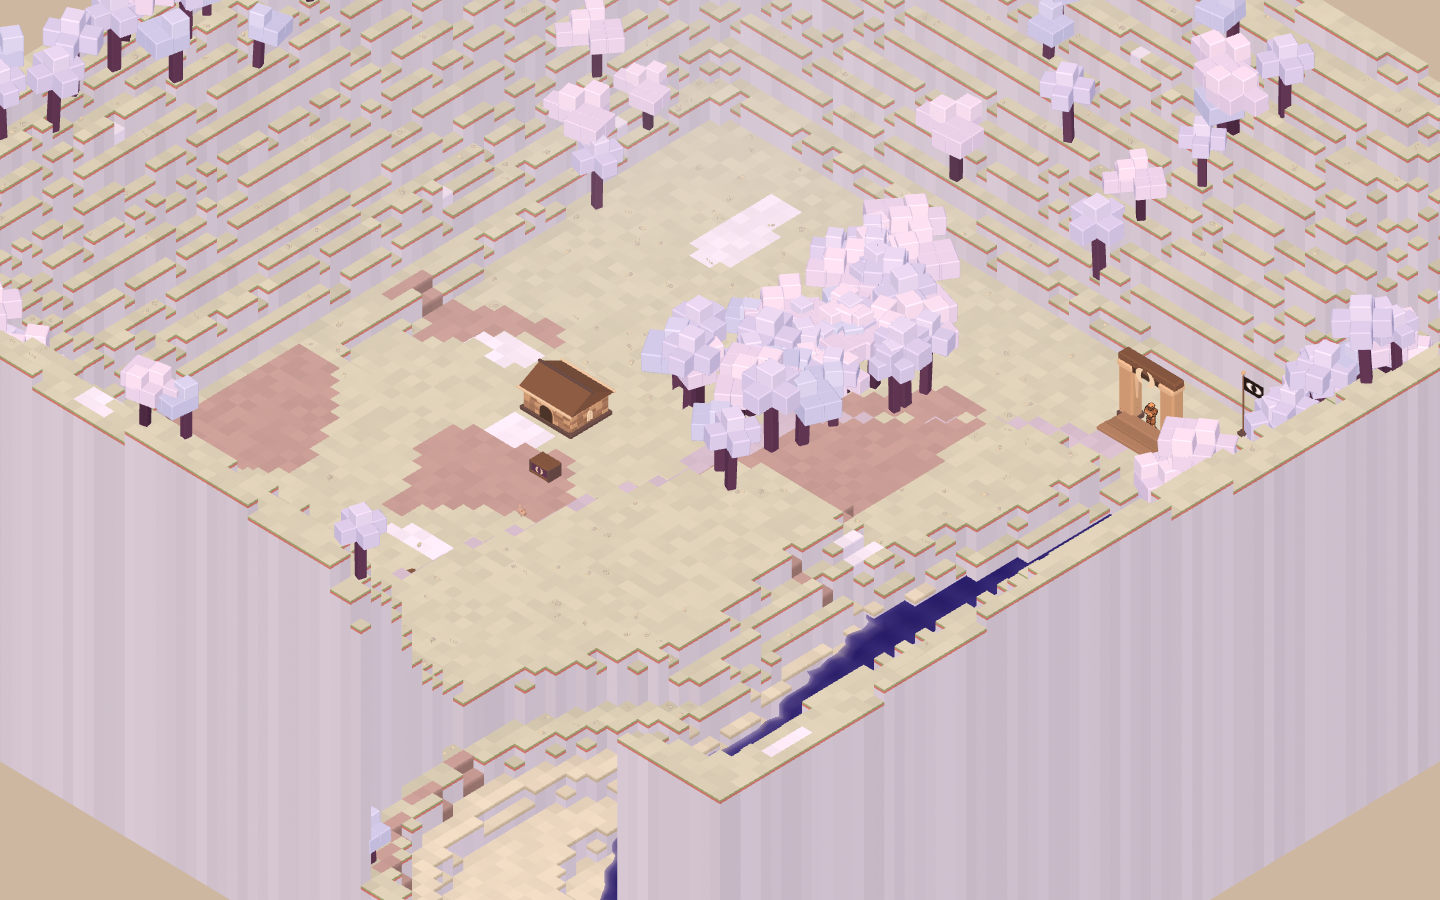
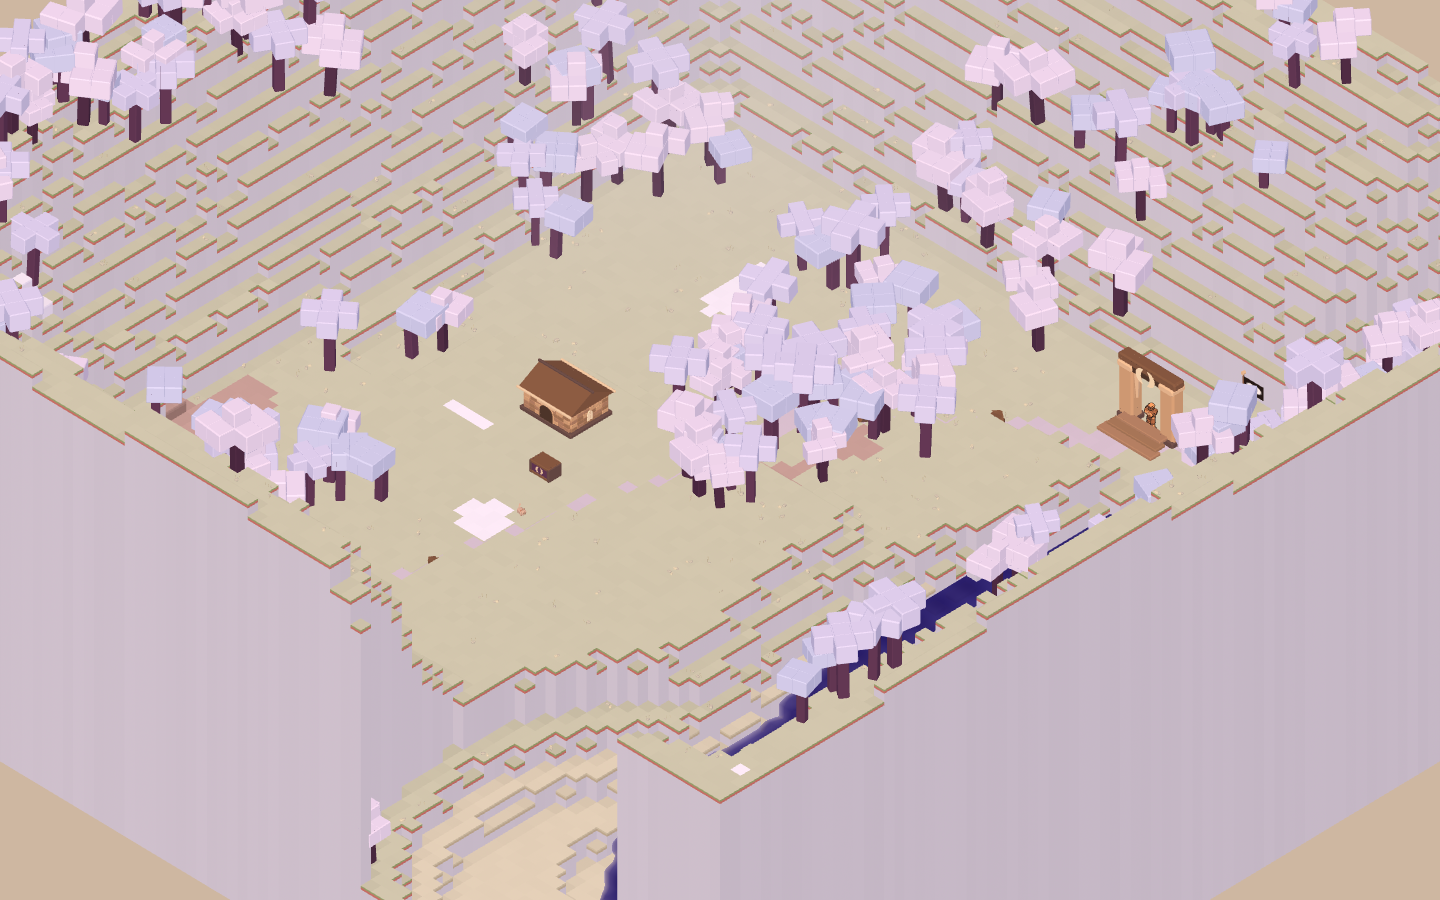
Fix inverted movement; rebuild the character; kill the ground checkerboard
Three separate problems, one of them a real bug.

MOVEMENT WAS ROTATED THE WRONG WAY. The rig sits at
`focus + (sin yaw, *, cos yaw) * d` looking back at the focus, so the
direction into the screen is `(-sin yaw, -cos yaw)`. The camera-relative
transform used the obvious `x*cos - z*sin, x*sin + z*cos`, which sends W
ninety degrees off that — at the default 45-degree yaw it reads as the
controls being reversed. Now `x*cos + z*sin, -x*sin + z*cos`, verified
numerically: W dots the camera forward at +1.00, S at -1.00, A and D at
0.00.

THE CHARACTER WAS THE WRONG CHARACTER. The reference's is a chibi built
entirely from boxes — about three heads tall, a head as wide as the
shoulders, a cream shirt panel with blue sleeves either side, one tan
strap, navy legs, black boots. Mine was a 1.72-unit adult made of hex
prisms with tapered limbs, a backpack and a brimmed hat. At this camera
height the player is a hundred pixels tall and proportion is the only
thing that reads, so it is now boxes at 1.55 units with the reference's
proportions.

THE GROUND WAS A CHECKERBOARD. Per-cell colour jitter at ±6% gives every
cell an independent value and the eye assembles them into a grid across
a flat plateau. Cut to ±1.5%, which still stops large flats banding.

Also from the same comparison pass: ground pulled to the reference's
cool sage-khaki, canopies down to a single flat layer of cubes in one
uniform tone (the split-by-height tone made the raised cubes read as a
[…]

diff --git a/src/actors/player.js b/src/actors/player.js
@@ -1,5 +1,5 @@
 import * as THREE from 'three'
-import { BALL, chamferBox, COLUMN, DISC, FLAT, POINT, stoneMat, TAPER } from '../core/kit.js'
+import { chamferBox, stoneMat } from '../core/kit.js'
 import { C, UI } from '../core/palette.js'
 import { clamp, damp } from '../core/rng.js'
 import { Grid, N } from '../world/grid.js'
@@ -36,33 +36,52 @@ const RADIUS = 0.3
  *
  * One entry, and that is the point. There is nobody else alive in the valley —
  * the survivors are scattered and do not know about each other — so a second
- * human look would be a lie about the setting. An earlier pass put three
- * villagers and a market square in here and it read as a different game.
+ * human look would be a lie about the setting.
  *
- * The teal jacket and the rust pack are the only saturated colours a person is
+ * The blue cap and the tan belt are the only saturated colours a person is
  * allowed to be against a washed-out world. They are how you find yourself in a
  * wide shot.
  */
 export const LOOKS = {
   apprentice: {
-    skin: C.skin, hair: C.hair,
-    coat: C.jacket, coatDark: C.jacketDark,
-    trouser: C.trousers, boot: C.boots,
-    pack: C.pack, hat: true,
+    cap: '#7ba8c4', capDark: '#3d6b74',
+    shirt: '#e8e0d0', sleeve: '#5f9ec4',
+    belt: '#d9a05a', skin: C.skin,
+    trouser: '#3a4468', boot: '#1c1e2a',
   },
 }
 
+/**
+ * The settler.
+ *
+ * **Everything is a box.** Not a tapered prism, not a hex plate, not a sphere —
+ * hard rectangular voxels, the way the reference draws them. And the
+ * proportions are a chibi's, not a person's: roughly three heads tall, with a
+ * head as wide as the shoulders and legs that are a third of the figure.
+ *
+ * An earlier pass built a 1.72-unit adult out of hex prisms with tapered limbs
+ * and a brimmed hat. It was a perfectly decent little farmer and it was the
+ * wrong one — at this camera height the player is a hundred pixels tall, and at
+ * that size proportion and silhouette are the ONLY things that read.
+ *
+ * Measured off the footage, as fractions of total height:
+ *
+ *   head   1.06 → 1.55  (0.62 wide — as wide as the shoulders)
+ *   torso  0.58 → 1.10  (cream front panel, blue sleeves either side)
+ *   legs   0.12 → 0.60  (navy)
+ *   boots  0.00 → 0.17
+ */
 export function buildPlayer(lookKey = 'apprentice') {
   const look = typeof lookKey === 'string' ? (LOOKS[lookKey] ?? LOOKS.apprentice) : lookKey
   const MAT = {
+    cap: stoneMat(look.cap),
+    capDark: stoneMat(look.capDark),
+    shirt: stoneMat(look.shirt),
+    sleeve: stoneMat(look.sleeve),
+    belt: stoneMat(look.belt),
     skin: stoneMat(look.skin),
-    hair: stoneMat(look.hair),
-    coat: stoneMat(look.coat),
-    coatDark: stoneMat(look.coatDark),
     trouser: stoneMat(look.trouser),
     boot: stoneMat(look.boot),
-    pack: stoneMat(look.pack),
-    strap: stoneMat(UI.stoneDark),
     eye: stoneMat(UI.ink),
   }
 
@@ -70,12 +89,10 @@ export function buildPlayer(lookKey = 'apprentice') {
   root.name = 'player'
   const parts = { root, materials: MAT }
 
-  const plate = (parent, geo, at, sc, mat) => {
-    const m = new THREE.Mesh(geo, mat)
+  /** One box. The only primitive this rig uses. */
+  const box = (parent, [w, h, d], at, mat, cut = 0.03) => {
+    const m = new THREE.Mesh(chamferBox(w, h, d, cut), mat)
     m.position.set(...at)
-    m.scale.set(...(typeof sc === 'number' ? [sc, sc, sc] : sc))
-    m.castShadow = true
-    m.receiveShadow = true
     parent.add(m)
     return m
   }
@@ -89,70 +106,75 @@ export function buildPlayer(lookKey = 'apprentice') {
 
   const body = pivot(root, [0, 0, 0], 'body')
 
-  // Hips, coat, shoulders. The coat flares below the belt — one extra plate,
-  // and it is the difference between a farmer and a mannequin in a shirt.
-  plate(body, POINT, [0, 0.86, 0], [0.34, 0.16, 0.24], MAT.trouser)
-  plate(body, POINT, [0, 1.02, 0], [0.42, 0.22, 0.28], MAT.coatDark)
-  const chest = pivot(body, [0, 1.02, 0], 'chest')
-  plate(chest, FLAT, [0, 0.16, 0], [0.44, 0.3, 0.28], MAT.coat)
-  plate(chest, FLAT, [0, 0.32, 0.005], [0.46, 0.08, 0.3], MAT.coatDark)
-  // The pack. Everything you are carrying is notionally in here.
-  plate(chest, chamferBox(0.34, 0.36, 0.2, 0.05), [0, 0.16, -0.2], 1, MAT.pack)
-  plate(chest, FLAT, [0, 0.2, 0.15], [0.1, 0.34, 0.06], MAT.strap)
-
-  const head = pivot(chest, [0, 0.4, 0], 'head')
-  plate(head, POINT, [0, 0.1, 0], [0.25, 0.22, 0.24], MAT.skin)
-  // Brimmed hat, because the sun in Ember is the reason anybody wears one.
-  if (look.hat) plate(head, FLAT, [0, 0.2, -0.01], [0.44, 0.04, 0.42], MAT.hair)
-  plate(head, POINT, [0, look.hat ? 0.26 : 0.22, -0.01], [0.26, look.hat ? 0.11 : 0.16, 0.25], MAT.hair)
-  for (const side of [-1, 1]) {
-    plate(head, DISC, [side * 0.062, 0.1, 0.122], [0.036, 0.05, 0.02], MAT.eye)
-  }
-
+  // --- legs ----------------------------------------------------------------
   for (const side of [-1, 1]) {
     const L = side < 0 ? 'L' : 'R'
-    const arm = pivot(chest, [side * 0.24, 0.28, 0], `arm${L}`)
-    plate(arm, TAPER, [0, -0.16, 0], [0.11, 0.33, 0.11], MAT.coat)
-    const fore = pivot(arm, [0, -0.31, 0], `fore${L}`)
-    plate(fore, TAPER, [0, -0.14, 0], [0.1, 0.3, 0.1], MAT.coatDark)
-    plate(fore, BALL, [0, -0.31, 0], [0.13, 0.13, 0.13], MAT.skin)
-    const hold = pivot(fore, [0, -0.34, 0.04], `hold${L}`)
+    const thigh = pivot(body, [side * 0.13, 0.6, 0], `thigh${L}`)
+    box(thigh, [0.2, 0.44, 0.22], [0, -0.22, 0], MAT.trouser)
+    const shin = pivot(thigh, [0, -0.44, 0], `shin${L}`)
+    const foot = pivot(shin, [0, -0.02, 0], `foot${L}`)
+    box(foot, [0.23, 0.15, 0.32], [0, -0.06, 0.04], MAT.boot)
+  }
+
+  // --- torso ---------------------------------------------------------------
+  const chest = pivot(body, [0, 0.58, 0], 'chest')
+  box(chest, [0.5, 0.5, 0.34], [0, 0.25, 0.02], MAT.shirt)
+  for (const side of [-1, 1]) {
+    box(chest, [0.12, 0.5, 0.36], [side * 0.21, 0.25, 0], MAT.sleeve)
+  }
+  // The satchel strap. One band, and it is the only warm colour on the figure.
+  box(chest, [0.52, 0.11, 0.37], [0, 0.13, 0.01], MAT.belt)
+
+  // --- head ----------------------------------------------------------------
+  // Big, and wider than it is tall. The cap IS the head; there is no separate
+  // skull under it at this size.
+  const head = pivot(chest, [0, 0.52, 0], 'head')
+  box(head, [0.62, 0.42, 0.52], [0, 0.21, 0], MAT.cap, 0.04)
+  // The hood roll at the back of the crown — the one piece of asymmetry, and
+  // what tells you which way the figure is facing from directly above.
+  box(head, [0.32, 0.16, 0.24], [0, 0.44, -0.14], MAT.capDark)
+  box(head, [0.44, 0.2, 0.05], [0, 0.13, 0.26], MAT.skin)
+  for (const side of [-1, 1]) {
+    box(head, [0.07, 0.07, 0.03], [side * 0.1, 0.16, 0.29], MAT.eye, 0.01)
+  }
+
+  // --- arms ----------------------------------------------------------------
+  for (const side of [-1, 1]) {
+    const L = side < 0 ? 'L' : 'R'
+    const arm = pivot(chest, [side * 0.31, 0.44, 0], `arm${L}`)
+    box(arm, [0.15, 0.28, 0.18], [0, -0.14, 0], MAT.sleeve)
+    const fore = pivot(arm, [0, -0.28, 0], `fore${L}`)
+    box(fore, [0.14, 0.2, 0.17], [0, -0.1, 0], MAT.sleeve)
+    box(fore, [0.15, 0.1, 0.17], [0, -0.24, 0], MAT.skin)
+    const hold = pivot(fore, [0, -0.28, 0.06], `hold${L}`)
     hold.rotation.x = -0.4
-  }
-
-  for (const side of [-1, 1]) {
-    const L = side < 0 ? 'L' : 'R'
-    const thigh = pivot(body, [side * 0.12, 0.86, 0], `thigh${L}`)
-    plate(thigh, COLUMN, [0, -0.2, 0], [0.16, 0.42, 0.17], MAT.trouser)
-    const shin = pivot(thigh, [0, -0.42, 0], `shin${L}`)
-    plate(shin, COLUMN, [0, -0.2, 0], [0.14, 0.4, 0.15], MAT.trouser)
-    const foot = pivot(shin, [0, -0.42, 0], `foot${L}`)
-    plate(foot, chamferBox(0.17, 0.12, 0.3, 0.04), [0, 0.06, 0.06], 1, MAT.boot)
   }
 
   const A = { t: 0, speed: 0, swing: 0, use: 0, useKind: 'swing', carry: null }
   parts.anim = A
-  parts.height = 1.72
+  parts.height = 1.55
 
   parts.update = (dt) => {
     A.t += dt
     const s = A.speed
     const gait = A.t * (7.2 + s * 2.4)
 
-    parts.thighL.rotation.x = Math.sin(gait) * 0.72 * s
-    parts.thighR.rotation.x = -Math.sin(gait) * 0.72 * s
-    parts.shinL.rotation.x = Math.max(0, -Math.sin(gait - 0.6)) * 0.95 * s
-    parts.shinR.rotation.x = Math.max(0, Math.sin(gait - 0.6)) * 0.95 * s
-    parts.footL.rotation.x = -parts.thighL.rotation.x * 0.35
-    parts.footR.rotation.x = -parts.thighR.rotation.x * 0.35
+    // Stubby legs swing less than long ones or the figure looks like it is
+    // running on the spot.
+    parts.thighL.rotation.x = Math.sin(gait) * 0.5 * s
+    parts.thighR.rotation.x = -Math.sin(gait) * 0.5 * s
+    parts.footL.rotation.x = -parts.thighL.rotation.x * 0.3
+    parts.footR.rotation.x = -parts.thighR.rotation.x * 0.3
     // The bob runs at DOUBLE the stride, because it peaks once per foot. At
     // stride frequency it reads as a limp.
-    parts.body.position.y = Math.abs(Math.sin(gait)) * 0.055 * s
-    parts.chest.rotation.y = Math.sin(gait) * 0.1 * s
-    parts.body.rotation.x = s * 0.07
+    parts.body.position.y = Math.abs(Math.sin(gait)) * 0.045 * s
+    parts.chest.rotation.y = Math.sin(gait) * 0.08 * s
+    // The head counter-rotates a little, so the cap stays level while the body
+    // turns under it. It is two lines and it is most of the life in the walk.
+    parts.head.rotation.y = -parts.chest.rotation.y * 0.6
+    parts.head.rotation.z = Math.sin(gait) * 0.03 * s
+    parts.body.rotation.x = s * 0.05
 
-    // Tool use overrides the arms entirely, and decays on its own clock so the
-    // swing finishes even if the player let go of the key mid-stroke.
     A.use = Math.max(0, A.use - dt * 2.6)
     const u = A.use
     if (u > 0) {
@@ -162,17 +184,17 @@ export function buildPlayer(lookKey = 'apprentice') {
         ? -1.3 - Math.sin(Math.min(1, u) * Math.PI) * 0.3
         : -2.4 + Math.cos(u * Math.PI * 1.3) * 2.6
       parts.armR.rotation.x = curve
-      parts.armL.rotation.x = curve * 0.45
-      parts.foreR.rotation.x = A.useKind === 'pour' ? -0.5 : -0.8 + u * 0.6
-      parts.chest.rotation.x = A.useKind === 'pour' ? 0.05 : 0.24 * (1 - u)
+      parts.armL.rotation.x = curve * 0.4
+      parts.foreR.rotation.x = A.useKind === 'pour' ? -0.5 : -0.7 + u * 0.5
+      parts.chest.rotation.x = A.useKind === 'pour' ? 0.05 : 0.2 * (1 - u)
     } else {
-      const swing = Math.sin(gait) * 0.8 * s
+      const swing = Math.sin(gait) * 0.55 * s
       parts.armL.rotation.x = swing
       parts.armR.rotation.x = -swing
-      parts.armL.rotation.z = 0.08
-      parts.armR.rotation.z = -0.08
-      parts.foreL.rotation.x = -0.16 - Math.max(0, swing) * 0.4
-      parts.foreR.rotation.x = -0.16 - Math.max(0, -swing) * 0.4
+      parts.armL.rotation.z = 0.06
+      parts.armR.rotation.z = -0.06
+      parts.foreL.rotation.x = -0.1
+      parts.foreR.rotation.x = -0.1
       parts.chest.rotation.x = 0
     }
   }
@@ -233,12 +255,22 @@ export class PlayerController {
     const [cx, cz] = this.cell
     const standingH = g.h(cx, cz)
 
-    // Camera-relative movement. The camera only ever sits at one of four yaws,
-    // so this is a rotation and never a source of drift.
+    /**
+     * Camera-relative movement.
+     *
+     * The rig sits at `focus + (sin yaw, *, cos yaw) * d` and looks back at the
+     * focus, so the direction INTO the screen is `(-sin yaw, -cos yaw)`. W sends
+     * `move.z = -1`, and it has to come out as exactly that vector.
+     *
+     * The rotation below is the one that does it. The obvious form —
+     * `x*cos - z*sin, x*sin + z*cos` — rotates the wrong way for this camera and
+     * sends W off at ninety degrees to where the player is looking; at the
+     * default 45-degree yaw that reads as the controls being reversed.
+     */
     const cos = Math.cos(camYaw)
     const sin = Math.sin(camYaw)
-    const mx = input.move.x * cos - input.move.z * sin
-    const mz = input.move.x * sin + input.move.z * cos
+    const mx = input.move.x * cos + input.move.z * sin
+    const mz = -input.move.x * sin + input.move.z * cos
     const mag = Math.hypot(mx, mz)
 
     const speed = (input.run ? RUN : WALK) * (this.rig.anim.use > 0.15 ? 0.35 : 1)

diff --git a/src/world/props.js b/src/world/props.js
@@ -1,6 +1,6 @@
 import * as THREE from 'three'
 import { bake, bakedMat, chamferBox, COLUMN, FLAT, POINT, shardMat, stoneLump, TAPER } from '../core/kit.js'
-import { C, shade, sunlit, UI } from '../core/palette.js'
+import { C, shade, UI } from '../core/palette.js'
 import { shardGeometry } from '../core/mark.js'
 import { LEVEL, N, P } from './grid.js'
 
@@ -55,12 +55,14 @@ function cellRand(x, z, salt = 0) {
 
 /** Cube-cluster canopy plans, on a cell grid. Offsets are in canopy cubes. */
 const CANOPY_PLANS = [
-  // Compact plus, one cube of relief.
-  [[0, 0, 0], [1, 0, 0], [-1, 0, 0], [0, 0, 1], [0, 0, -1], [0, 1, 0]],
-  // Wide and ragged, the commonest in the footage.
-  [[0, 0, 0], [1, 0, 0], [2, 0, 0], [-1, 0, 0], [0, 0, 1], [1, 0, 1], [-1, 0, -1], [0, 0, -1], [1, 1, 0], [0, 1, 1]],
-  // Small and dense.
-  [[0, 0, 0], [1, 0, 0], [0, 0, 1], [1, 0, 1], [0, 1, 0]],
+  // A plus. One raised cube and no more — the canopies in the footage are a
+  // SLAB, essentially one layer thick, and stacking a second layer turns them
+  // into shrubs on stilts.
+  [[0, 0, 0], [1, 0, 0], [-1, 0, 0], [0, 0, 1], [0, 0, -1]],
+  // Wide and lopsided, the commonest in the footage.
+  [[0, 0, 0], [1, 0, 0], [-1, 0, 0], [0, 0, 1], [1, 0, 1], [-1, 0, -1], [0, 1, 0]],
+  // Small and square.
+  [[0, 0, 0], [1, 0, 0], [0, 0, 1], [1, 0, 1]],
 ]
 
 function treeGeometry(kind) {
@@ -73,9 +75,10 @@ function treeGeometry(kind) {
     { geometry: chamferBox(0.62, trunkH, 0.62, 0.05), position: [0, trunkH / 2, 0], color: kind === 1 ? C.trunkDark : C.trunk },
   ]
   for (const [dx, dy, dz] of plan) {
-    // Two tones inside one canopy, split by height, so the slab has a lit top
-    // and a shaded underside without needing a second light.
-    const col = dy > 0 ? sunlit(tone, 0.14) : tone
+    // ONE tone across the whole canopy. Splitting it by height made the raised
+    // cubes read as a separate white object sitting on the tree; the reference's
+    // canopies are a single flat colour and get all their form from the faces.
+    const col = tone
     parts.push({
       geometry: chamferBox(cube, cube, cube, 0.05),
       position: [dx * cube * 0.94, trunkH + cube * (0.2 + dy * 0.86), dz * cube * 0.94],

diff --git a/src/world/worldgen.js b/src/world/worldgen.js
@@ -238,8 +238,8 @@ export function generate(seed) {
       if (h < WATER_LEVEL) g = G.SHORE
       else if (h === WATER_LEVEL || (h === WATER_LEVEL + 1 && grid.nearWater(x, z))) g = G.SHORE
       else if (slope >= 2) g = G.ROCK
-      else if (m > 0.62 && h < 12) g = G.LOAM
-      else if (patch(x * 0.15, z * 0.15) > 0.82) g = G.ASH
+      else if (m > 0.8 && h < 12) g = G.LOAM
+      else if (patch(x * 0.13, z * 0.13) > 0.88) g = G.ASH
       else g = G.MEADOW
       grid.ground[i] = g
       // The fault itself is scarred ground: a one-cell band of burnt rock that
@@ -260,7 +260,7 @@ export function generate(seed) {
       if (near(HOME, 11) || near(GATE, 8)) continue
 
       const density = forest(x * 0.07, z * 0.07)
-      if ((g === G.MEADOW || g === G.LOAM) && density > 0.58 && chance(r, (density - 0.58) * 1.5)) {
+      if ((g === G.MEADOW || g === G.LOAM) && density > 0.5 && chance(r, 0.055 + (density - 0.5) * 0.28)) {
         grid.prop[i] = P.TREE
         grid.propData[i] = randInt(r, 0, SPECIES - 1)
       } else if (g === G.ROCK && chance(r, 0.09)) {

diff --git a/src/core/palette.js b/src/core/palette.js
@@ -99,7 +99,7 @@ export const C = {
 export const GROUND = {
   // Sand meadow. The one material with the full four-band read: a pale sand top,
   // a dappled olive lip, a rust band under it, and pale grey-lilac rock below.
-  MEADOW: ['#cdcdb2', '#93a56f', '#c4756a', '#cbc8d0'],
+  MEADOW: ['#c2c3a8', '#8c9e68', '#bb6e63', '#c6c3cc'],
   // Snow. Near-white, and NO banding — the reference's snow plateaus are one
   // white top over one faintly cooler face, and adding strata to them is what
   // makes a snowfield look like striped rock.
@@ -107,7 +107,7 @@ export const GROUND = {
   // Clay. A darker version of its own top, no rust, no olive.
   LOAM: ['#bb9c92', '#ab8c82', '#9d7f76', '#94776e'],
   STONE: ['#c8c4cc', '#b8b3c2', '#a49eb0', '#b0aabe'],
-  SHORE: ['#dcd6bc', '#cbc4a6', '#bcb094', '#cbc7d2'],
+  SHORE: ['#d2ccb2', '#c2bb9e', '#b4a88c', '#c6c3cc'],
   TILLED: ['#8d6a55', '#7f5e4a', '#6f5140', '#6b4f42'],
   WET: ['#6b4c3e', '#604437', '#553c30', '#4e372c'],
   SCAR: ['#c9bcc8', '#b3a2b2', '#8d6f7e', '#bdaec2'],

diff --git a/src/world/mesher.js b/src/world/mesher.js
@@ -44,13 +44,19 @@ function linear(hex) {
   return v
 }
 
-/** Per-cell value jitter, so a flat field of one material still has grain.
- *  Deterministic in x/z: a chunk rebuilt after a tremor must come back looking
- *  identical everywhere the tremor did not touch. */
+/**
+ * Per-cell value jitter — deliberately almost nothing.
+ *
+ * A wide range here looks like "texture" in a close-up and like a CHECKERBOARD
+ * across a plateau, because every cell gets an independent value and the eye
+ * assembles them into a grid. The reference's ground is flat, single-toned, and
+ * carries its detail in scattered props instead. A range of a few percent is
+ * enough to stop large flats banding and small enough that no pattern forms.
+ */
 function grain(x, z) {
   let h = (Math.imul(x, 0x27d4eb2d) ^ Math.imul(z, 0x165667b1)) >>> 0
   h = Math.imul(h ^ (h >>> 15), h | 1)
-  return 0.94 + (((h ^ (h >>> 14)) >>> 0) / 4294967296) * 0.12
+  return 0.985 + (((h ^ (h >>> 14)) >>> 0) / 4294967296) * 0.03
 }
 
 /**
